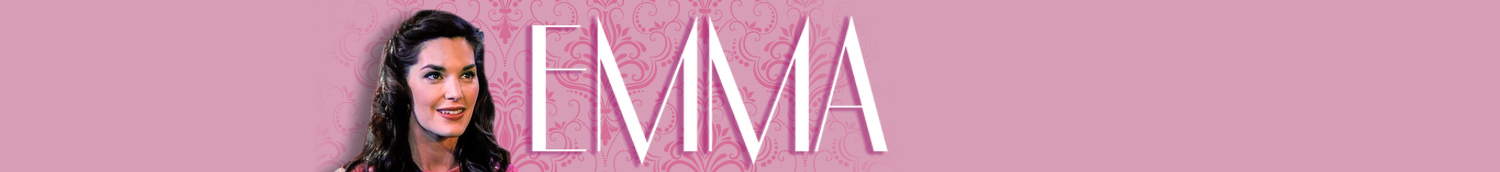
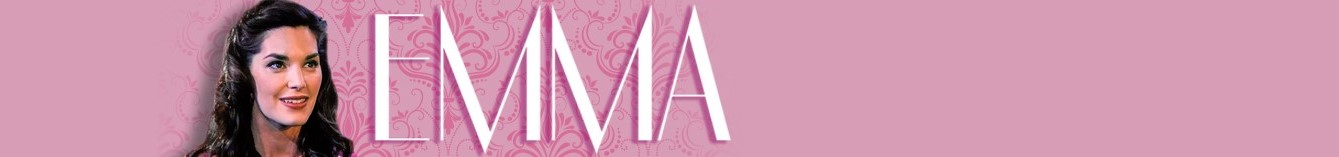
nhngnghngh

diff --git a/main/shows.html b/main/shows.html
@@ -1,10 +1,101 @@
-<!doctype html>
+<?php
+  session_start();
+  if (!isset($_SESSION['user'])) {
+    header("Location: https://theatrenow.azurewebsites.net/index.html");
+        exit();
+  }
+?>
+<!DOCTYPE html>
 <html>
-<head>
-<meta charset="utf-8">
-<title>Untitled Document</title>
-</head>
+	<head>
+		<meta charset="utf-8">
+		<meta name="viewport" content="width=device-width, initial-scale=1, shrink-to-fit=no">
+		<link rel = "stylesheet" type = "text/css" href = "../css/style.css">
+		<link href="https://fonts.googleapis.com/css?family=Open+Sans|Rambla:700" rel="stylesheet">
+		<link href="https://fonts.googleapis.com/css?family=Work+Sans:500" rel="stylesheet">
+		<link rel="stylesheet" href="https://stackpath.bootstrapcdn.com/bootstrap/4.3.1/css/bootstrap.min.css" integrity="sha384-ggOyR0iXCbMQv3Xipma34MD+dH/1fQ784/j6cY/iJTQUOhcWr7x9JvoRxT2MZw1T" crossorigin="anonymous">
+		<link rel="stylesheet" href="https://use.fontawesome.com/releases/v5.8.2/css/all.css" integrity="sha384-oS3vJWv+0UjzBfQzYUhtDYW+Pj2yciDJxpsK1OYPAYjqT085Qq/1cq5FLXAZQ7Ay" crossorigin="anonymous">
+	</head>
+	<body>
+		<nav class="navbar sticky-top navbar-expand-lg navbar-dark" style="background-color:var(--accent);">
+  			<a class="navbar-brand" href="home.html"><img src="../images/uhs_logo.png" class="logo" alt="Theatre Now Logo"></a>
+  			<button class="navbar-toggler" type="button" data-toggle="collapse" data-target="#NavDropdown" aria-controls="NavDropdown" aria-expanded="false" aria-label="Toggle navigation">
+    		<span class="navbar-toggler-icon"></span>
+			</button>
+			  <div class="collapse navbar-collapse" id="NavDropdown">
+				<ul class="navbar-nav ml-auto">
+				  <li class="nav-item active">
+					<a class="nav-link" href="home.html">Home<span class="sr-only">(current)</span></a>
+				  </li>
+				  
+				  <li class="nav-item dropdown">
+					<a class="nav-link dropdown-toggle" href="#" id="navbarDropdownMenuLink" data-toggle="dropdown" aria-haspopup="true" aria-expanded="false">
+					  Shows
+					</a>
+					<div class="dropdown-menu" aria-labelledby="navbarDropdownMenuLink">
+					  	<a class="dropdown-item" href="#">Cats</a>
+						<a class="dropdown-item" href="emma.html">Emma</a>
+						<div class="dropdown-divider"></div>
+						<a class="dropdown-item" href="shows.html">View All</a>
+					</div>
+				  </li>
+					<li class="nav-item">
+					<a class="nav-link" href="social.html">Social</a>
+				  </li>
+				  <li class="nav-item">
+					<a class="nav-link" href="streams.html">Streams</a>
+				  </li>
+				  <li class="nav-item">
+					<a class="nav-link" href="revenue.html">Revenue</a>
+				  </li>
+				  <li class="nav-item">
+					<a class="nav-link" href="account.html">My Account</a>
+				  </li>
+				</ul>
+			  </div>
+		</nav>
 
-<body>
+		<div class="main">
+			<nav aria-label="breadcrumb">
+				<ol class="breadcrumb">
+					<li class="breadcrumb-item"><a href="home.html">Dashboard</a></li>
+					<li class="breadcrumb-item active" aria-current="page">Shows</li>
+				</ol>
+			</nav>
+			<div cass="row">
+				<h1>Shows</h1>
+				<br>
+				<h4>My Shows</h4>
+				<img src="../images/emma.jpg" class="showimage">
+				<img src="../images/cats.jpg"  class="showimage">
+				<br><br><br><br>
+				<h4>Show Catalog</h4>
+				<div class="col-md text-left">
+					<select class="sort">
+						<option value="">Sort by:</option>
+						<option value="az">A - Z</option>
+						<option value="za">Z - A</option>
+						<option value="newest">Date Added: Newest</option>
+						<option value="oldest">Date Added: Oldest</option>
+					</select>
+					<button class="fas fa-filter filter"></button>
+					<button class="fas fa-list-ul filter"></button>
+					<button class="fas fa-th-large filter"></button>
+					<input type="search" class="search" placeholder="Search..">
+				</div>
+				<br>
+				<img src="../images/hamilton.jpg" class="showimage">
+				<img src="../images/shrek.jpg"  class="showimage">
+				<img src="../images/mamamia.jpg" class="showimage">
+				<img src="../images/meangirls.jpg"  class="showimage">
+				<img src="../images/wicked.jpg" class="showimage">
+				<img src="../images/phantom.jpg"  class="showimage">
+			</div>
+
+		</div>
+
+<script src="https://code.jquery.com/jquery-3.3.1.slim.min.js" integrity="sha384-q8i/X+965DzO0rT7abK41JStQIAqVgRVzpbzo5smXKp4YfRvH+8abtTE1Pi6jizo" crossorigin="anonymous"></script>
+<script src="https://cdnjs.cloudflare.com/ajax/libs/popper.js/1.14.7/umd/popper.min.js" integrity="sha384-UO2eT0CpHqdSJQ6hJty5KVphtPhzWj9WO1clHTMGa3JDZwrnQq4sF86dIHNDz0W1" crossorigin="anonymous"></script>
+<script src="https://stackpath.bootstrapcdn.com/bootstrap/4.3.1/js/bootstrap.min.js" integrity="sha384-JjSmVgyd0p3pXB1rRibZUAYoIIy6OrQ6VrjIEaFf/nJGzIxFDsf4x0xIM+B07jRM" crossorigin="anonymous"></script>
 </body>
 </html>

diff --git a/main/emma.html b/main/emma.html
@@ -47,8 +47,8 @@
 				chart: {
 				subtitle: 'in dollars (USD)'
 				},
-				width: 800,
-				height: 400,
+				width: 600,
+				height: 300,
 				colors: ['#003f5c', '#bc5090', '#ffa600']
 				};
 
@@ -109,10 +109,10 @@
 			<img class="banner" src="../images/emma-banner.jpg">
 			<br><br>
 			<div class="row">
-			<div class="col-lg">
-				<div class="title" style="padding-left: 25px;">RESOURCES</div>
+			<div class="col-3">
+				<div class="title" style="padding-left: 25px; font-size: 22px; font-weight: 600;">RESOURCES</div>
 				<div class="resources">
-					<div class="resource-title" id="resource-1" style="background-color:#006699" onclick="toggle('script');"><h1>SCRIPT (4)</h1></div>
+					<div class="resource-title" id="resource-1" style="background-color:#b0779d" onclick="toggle('script');"><h1>SCRIPT (4)</h1></div>
 					<div class="resource-container" id="script">
 						<img src="https://www.dzeesolutions.com/wp-content/uploads/2018/02/PDF-icon-small-231x300.png" height="35px" width="auto">
 						&nbsp; <a href="#">Cats_Musical_Script_EN.pdf</a>
@@ -127,7 +127,7 @@
 						&nbsp; <a href="#">Cats_Musical_Script_SP.pdf</a>
 					</div>
 
-					<div class="resource-title" id="resource-1" style="background-color:#006699" onclick="toggle('lighting');"><h1>LIGHTING (3)</h1></div>
+					<div class="resource-title" id="resource-1" style="background-color:#b0779d" onclick="toggle('lighting');"><h1>LIGHTING (3)</h1></div>
 					<div class="resource-container" id="lighting">
 						<img src="https://www.dzeesolutions.com/wp-content/uploads/2018/02/PDF-icon-small-231x300.png" height="35px" width="auto">
 						&nbsp; <a href="#">stage-light-01.pdf</a>
@@ -139,7 +139,7 @@
 						&nbsp; <a href="#">stage-light-03.pdf</a>
 					</div>
 
-					<div class="resource-title" id="resource-1" style="background-color:#006699" onclick="toggle('set');"><h1>SET DESIGN (4)</h1></div>
+					<div class="resource-title" id="resource-1" style="background-color:#b0779d" onclick="toggle('set');"><h1>SET DESIGN (4)</h1></div>
 					<div class="resource-container" id="set">
 						<img src="https://www.dzeesolutions.com/wp-content/uploads/2018/02/PDF-icon-small-231x300.png" height="35px" width="auto">
 						&nbsp; <a href="#">background.pdf</a>
@@ -154,7 +154,7 @@
 						&nbsp; <a href="#">furniture.pdf</a>
 					</div>
 
-					<div class="resource-title" id="resource-1" style="background-color:#006699" onclick="toggle('sound');"><h1>SOUND (2)</h1></div>
+					<div class="resource-title" id="resource-1" style="background-color:#b0779d" onclick="toggle('sound');"><h1>SOUND (2)</h1></div>
 					<div class="resource-container" id="sound">
 						<img src="https://cdn.iconscout.com/icon/free/png-256/file-music-download-audio-mp3-sound-44525.png" height="35px" width="auto">
 						&nbsp; <a href="#">background-music.mp3</a>
@@ -164,8 +164,9 @@
 					</div>
 
 				</div>
-			</div>
-			<div class="col-lg">
+			</div>&nbsp;&nbsp;&nbsp;
+				<div class="col-1"></div>
+			<div class="col-5">
 				<div class="title">REVENUE</div>
 					<div id="chart_div"></div>
 			</div>

diff --git a/main/social.html b/main/social.html
@@ -27,33 +27,29 @@
 				  <li class="nav-item active">
 					<a class="nav-link" href="home.html">Home<span class="sr-only">(current)</span></a>
 				  </li>
-				  <li class="nav-item">
-					<a class="nav-link" href="catalog.html">Catalog</a>
-				  </li>
+				  
 				  <li class="nav-item dropdown">
 					<a class="nav-link dropdown-toggle" href="#" id="navbarDropdownMenuLink" data-toggle="dropdown" aria-haspopup="true" aria-expanded="false">
-					  My Shows
+					  Shows
 					</a>
 					<div class="dropdown-menu" aria-labelledby="navbarDropdownMenuLink">
 					  	<a class="dropdown-item" href="#">Cats</a>
-						<a class="dropdown-item" href="#">Frozen Jr.</a>
-						<a class="dropdown-item" href="#">Hamilton</a>
-						<a class="dropdown-item" href="#">Mamma Mia!</a>
-						<a class="dropdown-item" href="#">Phantom</a>
-						<a class="dropdown-item" href="#">Wicked</a>
+						<a class="dropdown-item" href="emma.html">Emma</a>
+						<div class="dropdown-divider"></div>
+						<a class="dropdown-item" href="shows.html">View All</a>
 					</div>
 				  </li>
 					<li class="nav-item">
 					<a class="nav-link" href="social.html">Social</a>
 				  </li>
 				  <li class="nav-item">
-					<a class="nav-link" href="applications.html">Applications</a>
+					<a class="nav-link" href="streams.html">Streams</a>
 				  </li>
 				  <li class="nav-item">
 					<a class="nav-link" href="revenue.html">Revenue</a>
 				  </li>
 				  <li class="nav-item">
-					<a class="nav-link" href="contact.html">Contact</a>
+					<a class="nav-link" href="account.html">My Account</a>
 				  </li>
 				</ul>
 			  </div>

diff --git a/css/style.css b/css/style.css
@@ -110,7 +110,7 @@ html, body {
 }
 
 .banner {
-	width: 100%;
+	width: 85%;
 	height: auto;
 }
 
@@ -288,4 +288,23 @@ input[type="file"] {
 	width: 98%;
 	background-color: #EFEFEF;
 	display: none;
+}
+
+.showimage {
+	width: 200px;
+	height: 200px;
+	margin-right: 20px;
+	border-radius: 10px;
+}
+
+.search, .sort, .filter {
+	padding: 2px;
+	font-size: 14px;
+	border: thin solid #D5D5D5;
+	border-radius: 2px;
+}
+
+.filter {
+	height: 25px;
+	width: 25px;
 }
